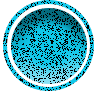
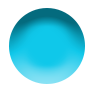
update

diff --git a/css/style.css b/css/style.css
@@ -14,7 +14,7 @@ body {
 	position: absolute;
 	right: 10px;
 	display: block;
-	outline: 1px solid red;
+	/*outline: 1px solid red;*/
 	background-repeat: no-repeat;
 	background-size: cover;
 }
@@ -23,8 +23,14 @@ body {
 	top: 50px;
 	background-image: url(../image/blog.png);
 }
+.blog:active {
+	background-image: url(../image/blog_click.png);
+}
 
 .other {
 	top: 160px;
 	background-image: url(../image/other.png);
+}
+.other:active {
+	background-image: url(../image/other_click.png);
 }

diff --git a/index.html b/index.html
@@ -10,7 +10,6 @@
 </head>
 <body>
 	<div class="button blog">
-		<p>博客</p>
 	</div>
 	<div class="button other">
 	</div>
